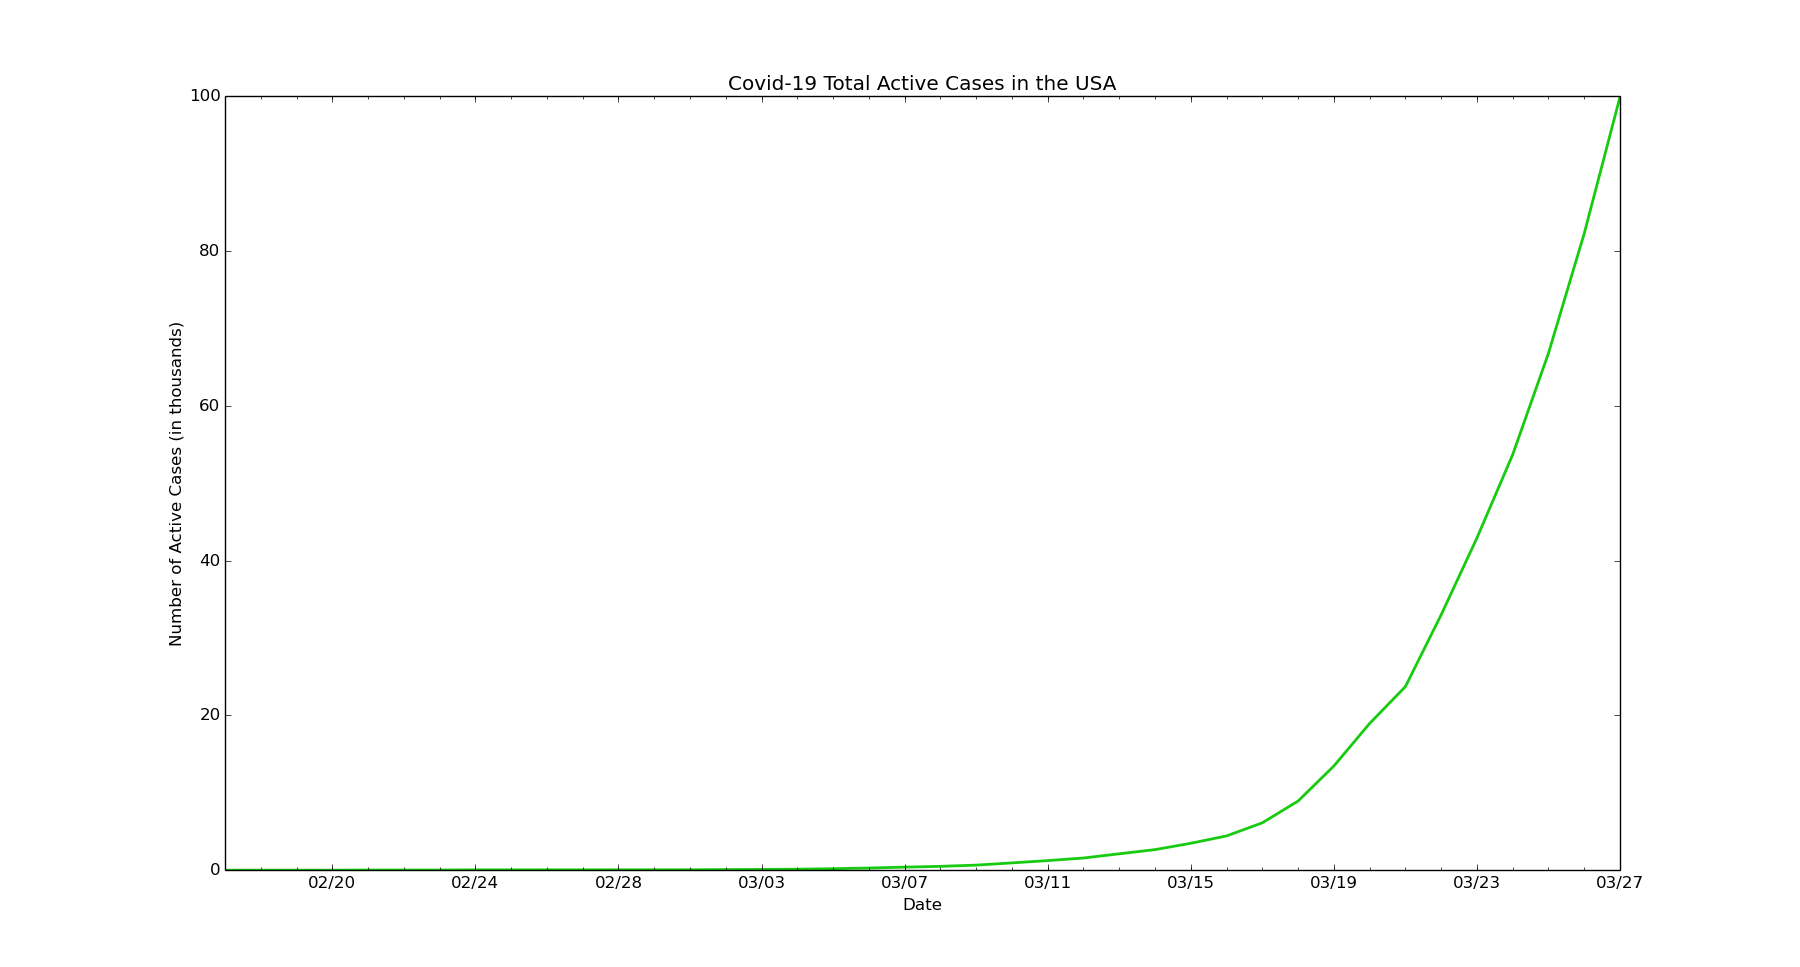
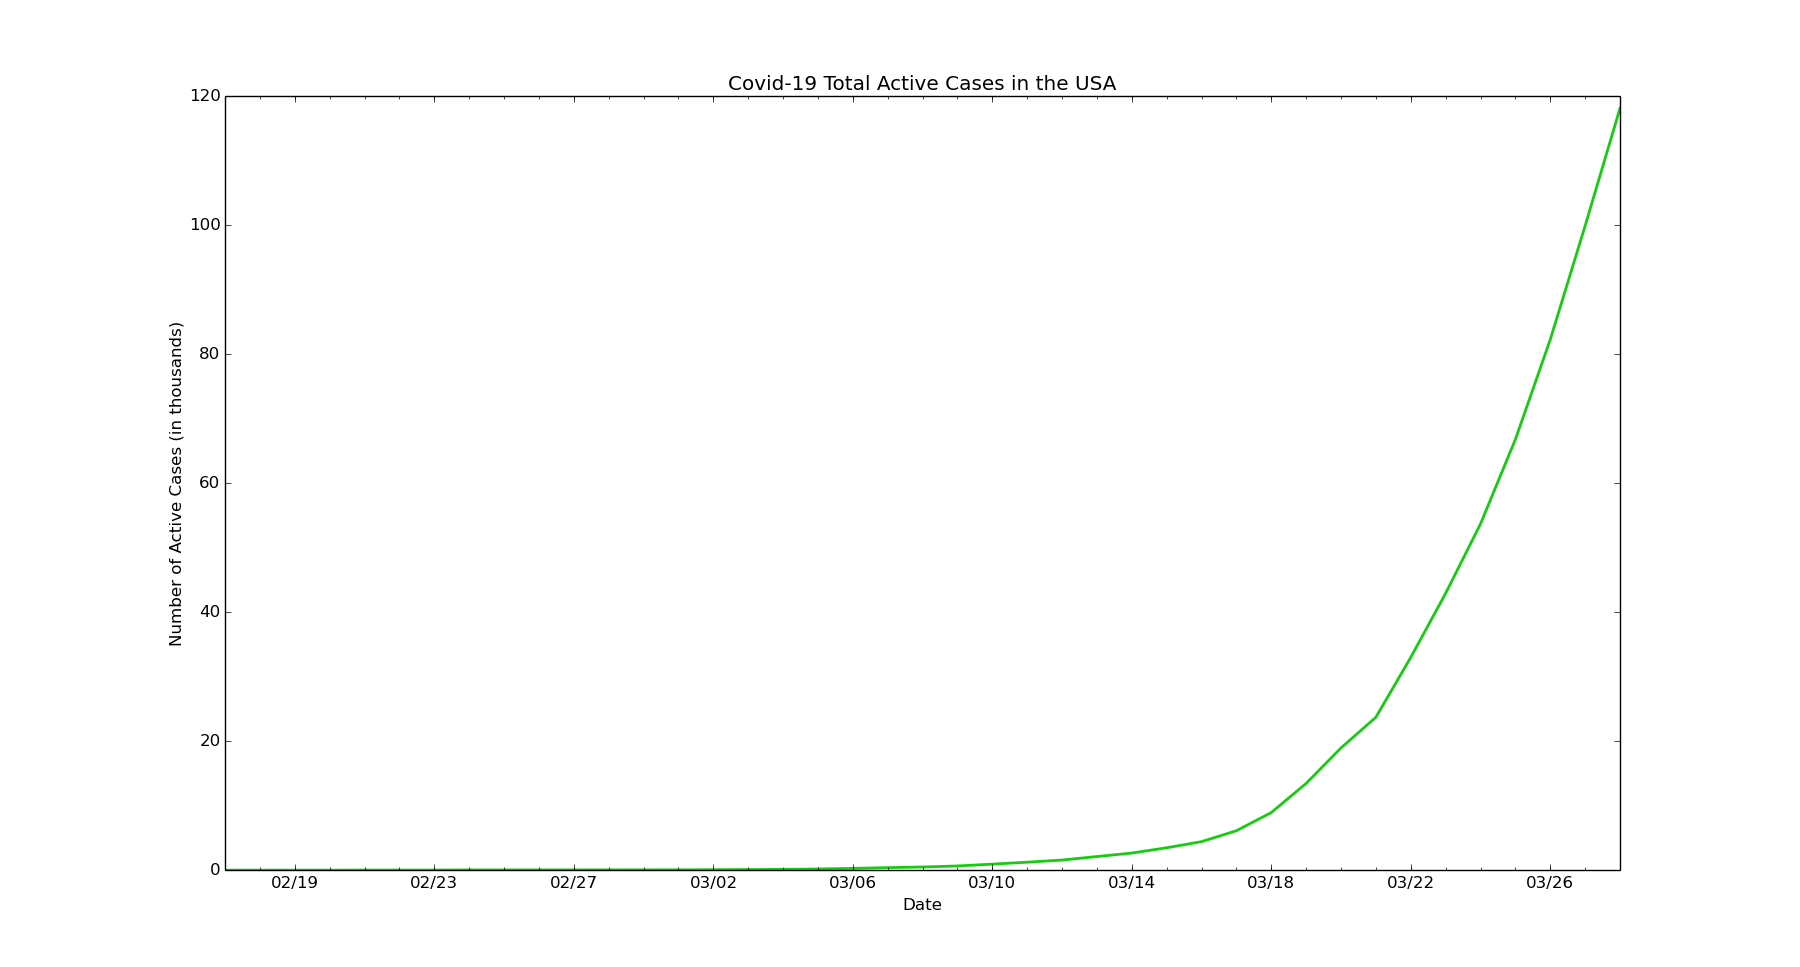
chore: Update US data and graphs

diff --git a/usa/us-active.py b/usa/us-active.py
@@ -6,7 +6,7 @@ import matplotlib.dates as mdates
 import matplotlib.ticker as ticker
 from matplotlib.dates import MO, TU, WE, TH, FR, SA, SU
 
-dates = ['2/17/2020', '2/18/2020', '2/19/2020', '2/20/2020', '2/21/2020', '2/22/2020', '2/23/2020', '2/24/2020', '2/25/2020', '2/26/2020', '2/27/2020', '2/28/2020', '2/29/2020', '3/1/2020', '3/2/2020', '3/3/2020', '3/4/2020', '3/5/2020', '3/6/2020', '3/7/2020', '3/8/2020', '3/9/2020', '3/10/2020', '3/11/2020', '3/12/2020', '3/13/2020', '3/14/2020', '3/15/2020', '3/16/2020', '3/17/2020', '3/18/2020', '3/19/2020', '3/20/2020', '3/21/2020', '3/22/2020', '3/23/2020', '3/24/2020', '3/25/2020', '3/26/2020', '3/27/2020']
+dates = ['2/17/2020', '2/18/2020', '2/19/2020', '2/20/2020', '2/21/2020', '2/22/2020', '2/23/2020', '2/24/2020', '2/25/2020', '2/26/2020', '2/27/2020', '2/28/2020', '2/29/2020', '3/1/2020', '3/2/2020', '3/3/2020', '3/4/2020', '3/5/2020', '3/6/2020', '3/7/2020', '3/8/2020', '3/9/2020', '3/10/2020', '3/11/2020', '3/12/2020', '3/13/2020', '3/14/2020', '3/15/2020', '3/16/2020', '3/17/2020', '3/18/2020', '3/19/2020', '3/20/2020', '3/21/2020', '3/22/2020', '3/23/2020', '3/24/2020', '3/25/2020', '3/26/2020', '3/27/2020', '3/28/2020']
 
 # format dates
 x_values = [datetime.datetime.strptime(d, "%m/%d/%Y").date() for d in dates]
@@ -24,7 +24,7 @@ ax.xaxis.set_minor_locator(mdates.WeekdayLocator(byweekday=(MO, TU, WE, TH, FR, 
 ax.get_yaxis().set_major_formatter(ticker.FuncFormatter(lambda x, pos: format(int(x/1000))))
 
 # active cases by day
-active = [12, 12, 12, 10, 29, 29, 28, 48, 51, 54, 54, 57, 60, 65, 85, 106, 138, 200, 289, 401, 504, 663, 949, 1248, 1581, 2126, 2664, 3484, 4434, 6127, 8940, 13464, 18965, 23720, 33000, 42930, 53697, 66790, 82272, 99908]
+active = [12, 12, 12, 10, 29, 29, 28, 48, 51, 54, 54, 57, 60, 65, 85, 106, 138, 200, 289, 401, 504, 663, 949, 1248, 1581, 2126, 2664, 3484, 4434, 6127, 8940, 13464, 18965, 23720, 33000, 42930, 53697, 66790, 82272, 99908, 118126]
 
 # text labels
 plt.title('Covid-19 Total Active Cases in the USA')

diff --git a/usa/us-rvd.py b/usa/us-rvd.py
@@ -6,7 +6,7 @@ import matplotlib.dates as mdates
 import matplotlib.ticker as ticker
 from matplotlib.dates import MO, TU, WE, TH, FR, SA, SU
 
-dates = ['2/25/2020', '2/26/2020', '2/27/2020', '2/28/2020', '2/29/2020', '3/1/2020', '3/2/2020', '3/3/2020', '3/4/2020', '3/5/2020', '3/6/2020', '3/7/2020', '3/8/2020', '3/9/2020', '3/10/2020', '3/11/2020', '3/12/2020', '3/13/2020', '3/14/2020', '3/15/2020', '3/16/2020', '3/17/2020', '3/18/2020', '3/19/2020', '3/20/2020', '3/21/2020', '3/22/2020', '3/23/2020', '3/24/2020', '3/25/2020', '3/26/2020', '3/27/2020']
+dates = ['2/25/2020', '2/26/2020', '2/27/2020', '2/28/2020', '2/29/2020', '3/1/2020', '3/2/2020', '3/3/2020', '3/4/2020', '3/5/2020', '3/6/2020', '3/7/2020', '3/8/2020', '3/9/2020', '3/10/2020', '3/11/2020', '3/12/2020', '3/13/2020', '3/14/2020', '3/15/2020', '3/16/2020', '3/17/2020', '3/18/2020', '3/19/2020', '3/20/2020', '3/21/2020', '3/22/2020', '3/23/2020', '3/24/2020', '3/25/2020', '3/26/2020', '3/27/2020', '3/28/2020']
 
 # format dates
 x_values = [datetime.datetime.strptime(d, "%m/%d/%Y").date() for d in dates]
@@ -24,10 +24,10 @@ ax.xaxis.set_minor_locator(mdates.WeekdayLocator(byweekday=(MO, TU, WE, TH, FR, 
 ax.get_yaxis().set_major_formatter(ticker.FuncFormatter(lambda x, pos: format(int(x), ',')))
 
 # recoveries by day
-recoveries = [6, 6, 6, 6, 8, 10, 15, 18, 20, 21, 30, 34, 37, 41, 45, 53, 49, 57, 106, 129, 162, 217, 257, 315, 402, 472, 592, 851, 1159, 1421, 3163, 4218]
+recoveries = [6, 6, 6, 6, 7, 9, 9, 9, 9, 9, 15, 15, 15, 15, 15, 15, 15, 15, 49, 60, 75, 107, 107, 109, 147, 171, 178, 296, 379, 394, 1868, 2522, 3223]
 
 # deaths by day
-deaths = [0, 0, 0, 0, 1, 2, 6, 9, 12, 12, 18, 19, 22, 26, 31, 38, 42, 49, 56, 62, 75, 96, 122, 174, 229, 296, 408, 519, 681, 906, 1159, 1476]
+deaths = [0, 0, 0, 0, 1, 1, 6, 9, 11, 12, 15, 19, 22, 26, 30, 38, 41, 48, 57, 69, 87, 110, 150, 206, 255, 301, 414, 555, 780, 1027, 1295, 1696, 2229]
 
 # create the graph
 plt.plot(x_values, recoveries, color='#12cfdf', linewidth=2)
